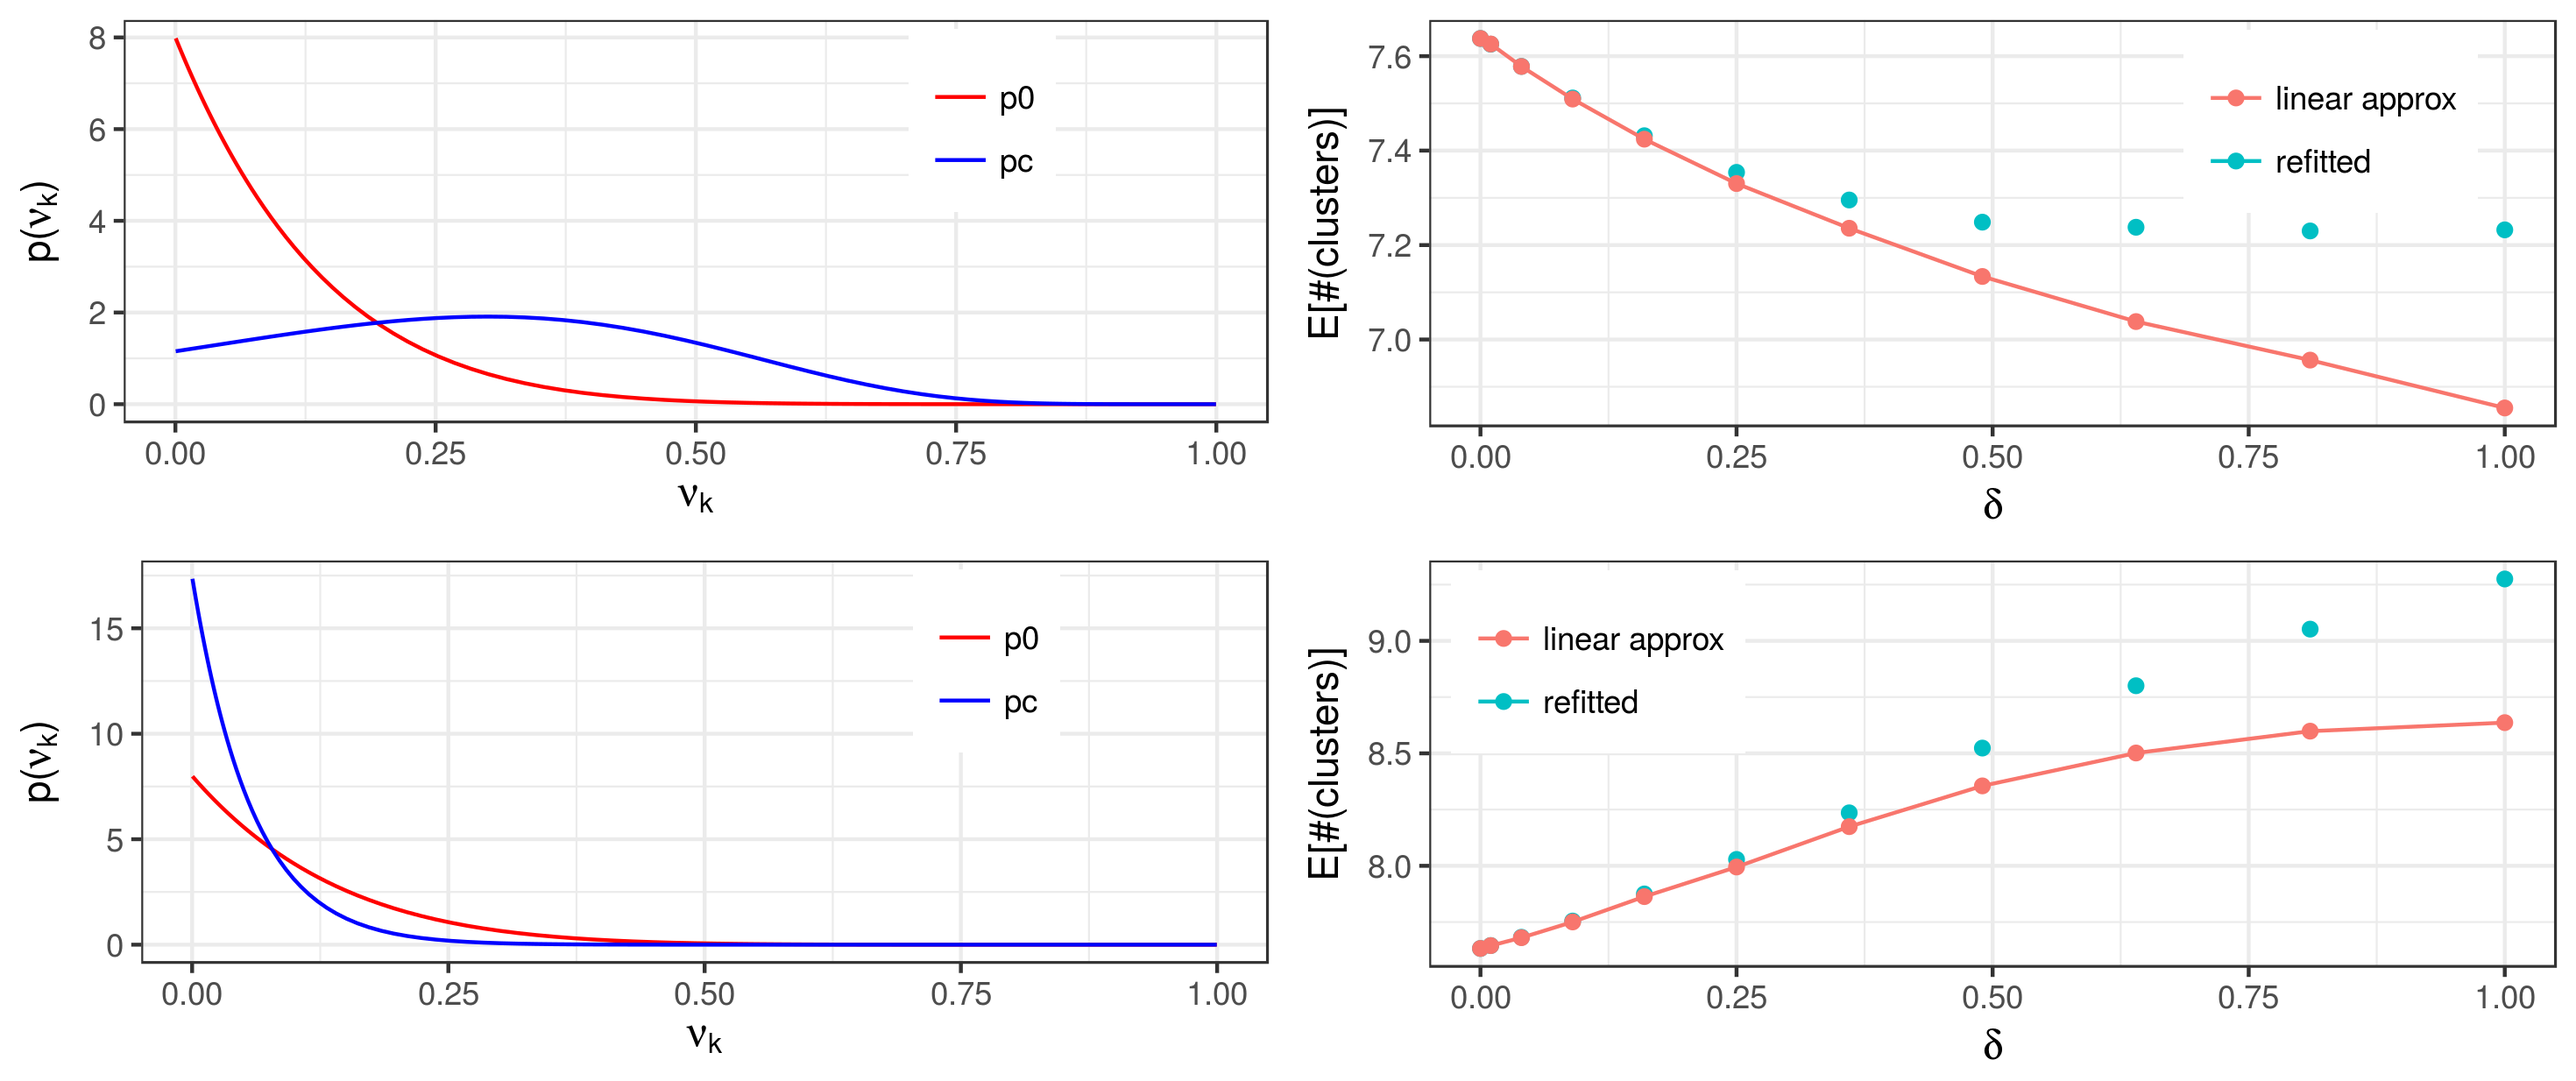
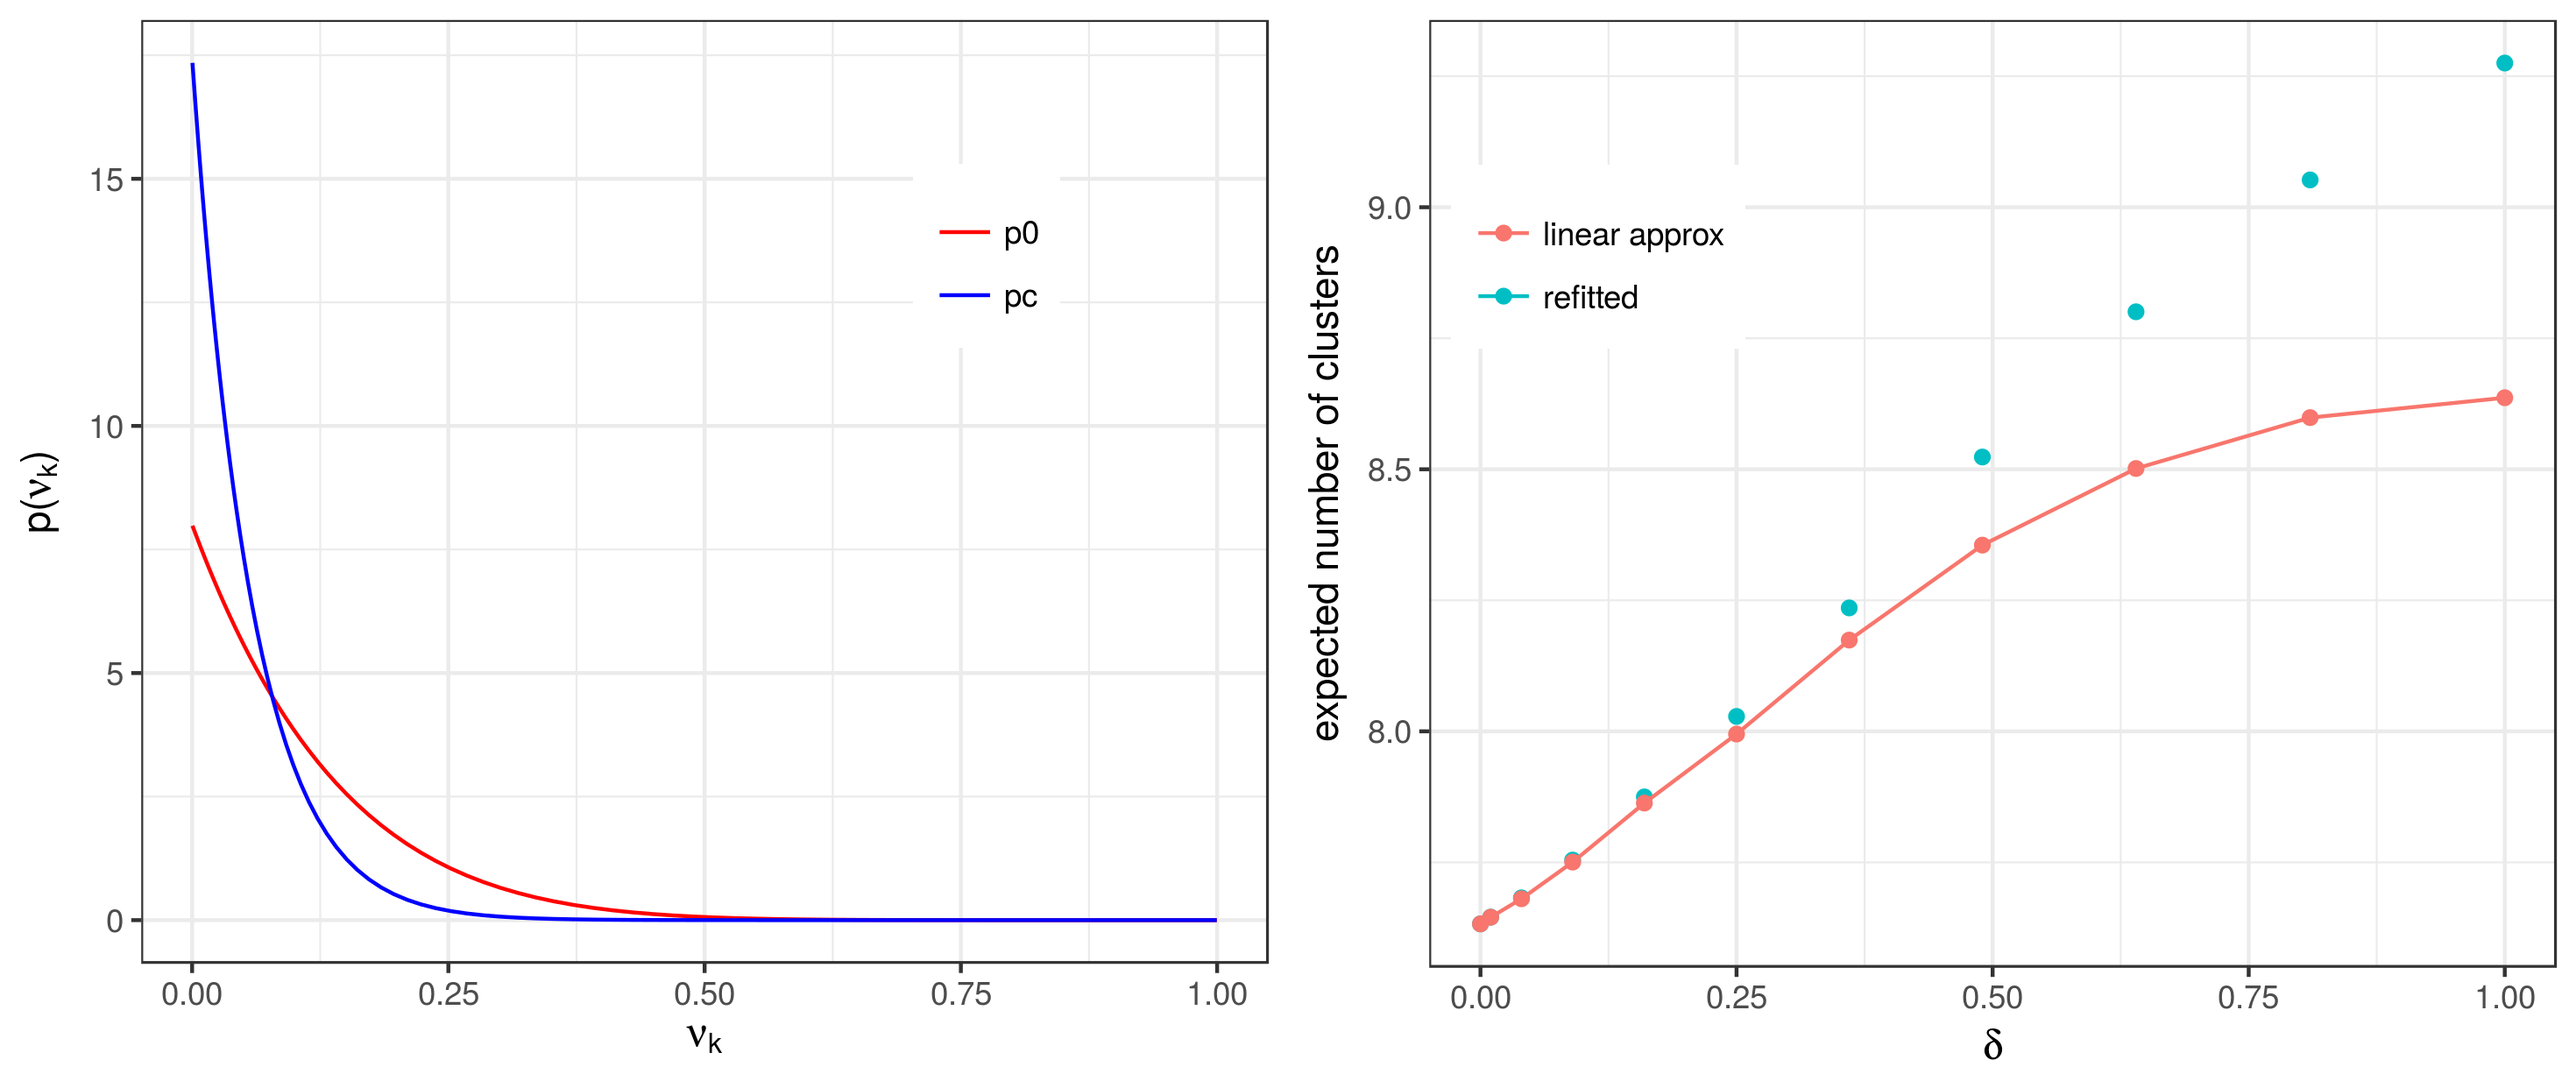
update figures and parametric sens text in appendix

diff --git a/writing/NIPS_2018_BNP_workshop/appendix_alpha.tex b/writing/NIPS_2018_BNP_workshop/appendix_alpha.tex
@@ -9,6 +9,30 @@
 
 
 
+We consider a modification to the expected number of posterior clusters defined in 
+equation~\ref{eq:expected_num_clusters}. We wish to measure the number of clusters with at least $t$ observations rather than the total number of distinct clusters. Hence we may also consider the posterior quantity 
+\begin{align}
+g_t(\etathetaopt) &:=
+\Expect_{q(z \vert \etazopt(\eta_\theta))} \left[ \#\{\text{clusters with at least $t$ datapoints}\} \right]  \\
+&=
+\Expect_{q(z \vert \etazopt(\eta_\theta))} \left[
+    \sum_{k=1}^K \mathbb{I}\left\{\left(\sum_{n=1}^N \mathbb{I}\{z_n \ne k\} \right) > t \right\}\right].
+    \label{eq:expected_num_clusters_thresh}
+\end{align}
+Note that $t = 0$ reduces to the original target posterior defined in the equation~\ref{eq:expected_num_clusters}. 
+
+This equation defines an \textit{in-sample} quantity. We also consider a posterior predictive quantity, that is, the number of clusters we expect see in a new dataset. This is an expectation over the variational distribution of the sticks $\nu$, defined as 
+\begin{align}
+g_{t, pred}(\etathetaopt) &:=
+\Expect_{q(\nu \vert \eta_\nu^{*}(\eta_\theta))} \left[\#\{\text{clusters with at least $t$ datapoints}\} \right]  \\
+&=
+\Expect_{q(\nu \vert \eta_\nu^{*}(\eta_\theta))} \left[\sum_{k=1}^K \left(1 - \sum_{i = 1}^t {t\choose i}
+\pi_k^{i} (1 - \pi_k)^{t - i}\right)\right].
+    \label{eq:expected_num_clusters_pred_thresh}
+\end{align}
+where $\pi_k$ are the cluster probabilities induced by the the sticks $\nu$. 
+
+Figure~\ref{fig:param_sens_plot_thresh_0} shows both the in-sample and predictive expected number of \textit{distinct} clusters (i.e. $t = 0$). 
 
 
 \begin{knitrout}
@@ -19,11 +43,15 @@
 
 }
 
-\caption[Comparison of the expected number of clusters computed by re-optimizing versus the linear approximation]{Comparison of the expected number of clusters computed by re-optimizing versus the linear approximation.  The blue vertical line indicates the location of $\alpha_0$.Top row indicates the in-sample expected number of clusters (CITE EQUATION), while the bottom row is the preditive expected number of clusters (CITE EQUATION). }\label{fig:param_sens_plot_thresh_0}
+\caption[The in-sample expected number of distinct clusters (Top), and the predictive expected number of distinct clusters (Bottom)]{The in-sample expected number of distinct clusters (Top), and the predictive expected number of distinct clusters (Bottom). Comparison of these values computed by re-optimizing versus the linear approximation.  The blue vertical line indicates the location of $\alpha_0$.}\label{fig:param_sens_plot_thresh_0}
 \end{figure}
 
 
 \end{knitrout}
+
+Next, figure~\ref{fig:param_sens_plot_thresh_3} shows both the in-sample and predicted expected number of clusters with at least three observations ($t = 3$). 
+
+The linear approximation does equally well in both cases, and works best when we set $\alpha_0 = 13$, and approximate from having more clusters to fewer clusters. 
 
 
 \begin{knitrout}
@@ -34,7 +62,7 @@
 
 }
 
-\caption[Comparison of the expected number of thresholded clusters computed by re-optimizing versus the linear approximation]{Comparison of the expected number of thresholded clusters computed by re-optimizing versus the linear approximation.  The blue vertical line indicates the location of $\alpha_0$.Top row indicates the in-sample expected number of clusters (CITE EQUATION), while the bottom row is the preditive expected number of clusters (CITE EQUATION). }\label{fig:param_sens_plot_thresh_3}
+\caption[The in-sample expected number of distinct clusters with at least three observations (Top), and the corresponding predictive quantity (Bottom)]{The in-sample expected number of distinct clusters with at least three observations (Top), and the corresponding predictive quantity (Bottom). Comparison of these values computed by re-optimizing versus the linear approximation.  The blue vertical line indicates the location of $\alpha_0$.}\label{fig:param_sens_plot_thresh_3}
 \end{figure}
 
 

diff --git a/writing/NIPS_2018_BNP_workshop/appendix_functions.tex b/writing/NIPS_2018_BNP_workshop/appendix_functions.tex
@@ -14,7 +14,7 @@
 \begin{knitrout}
 \definecolor{shadecolor}{rgb}{0.969, 0.969, 0.969}\color{fgcolor}\begin{figure}[!h]
 
-{\centering \includegraphics[width=0.98\linewidth,height=0.412\linewidth]{figure/functional_sens_plot_thresh0-1} 
+{\centering \includegraphics[width=0.98\linewidth,height=0.588\linewidth]{figure/functional_sens_plot_thresh0-1} 
 
 }
 
@@ -33,7 +33,7 @@ re-fitted expected number of clusters after the pertubation.  }\label{fig:functi
 \begin{knitrout}
 \definecolor{shadecolor}{rgb}{0.969, 0.969, 0.969}\color{fgcolor}\begin{figure}[!h]
 
-{\centering \includegraphics[width=0.98\linewidth,height=0.412\linewidth]{figure/functional_sens_plot_thresh3-1} 
+{\centering \includegraphics[width=0.98\linewidth,height=0.588\linewidth]{figure/functional_sens_plot_thresh3-1} 
 
 }
 
